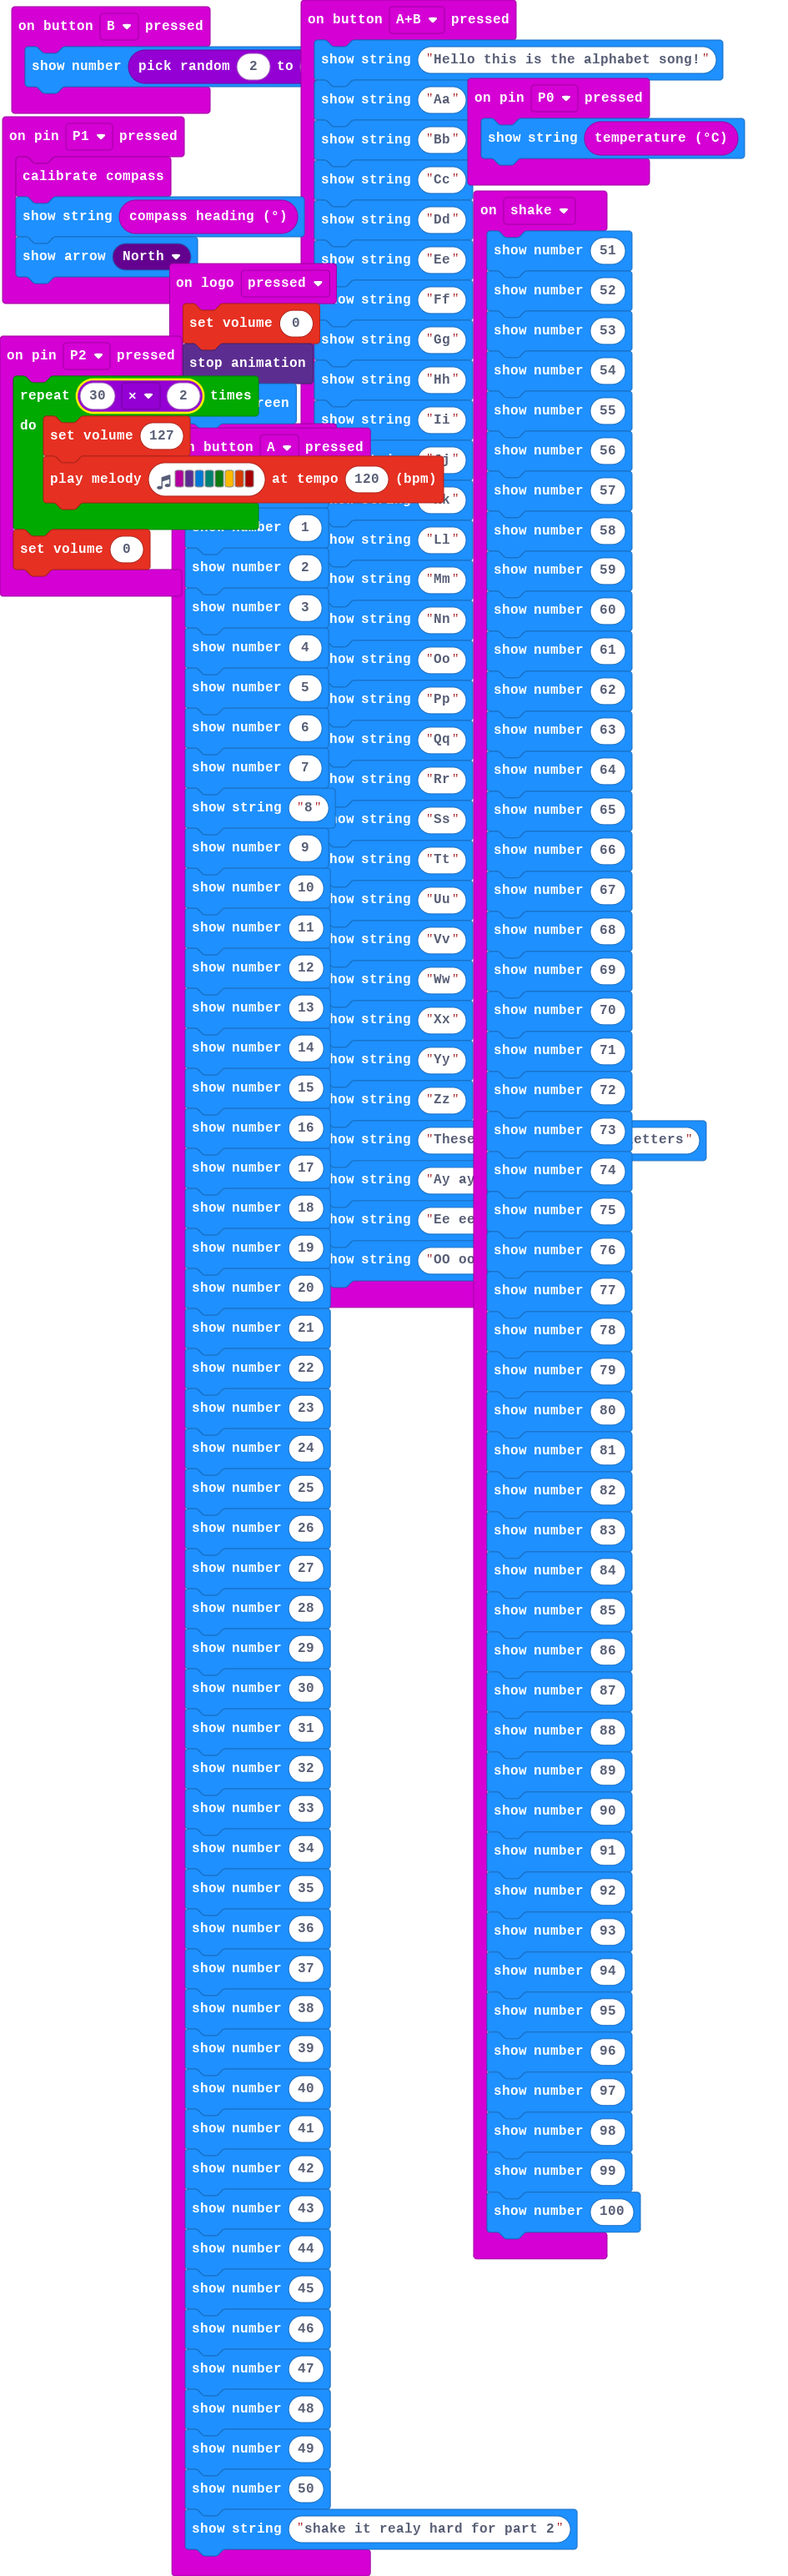
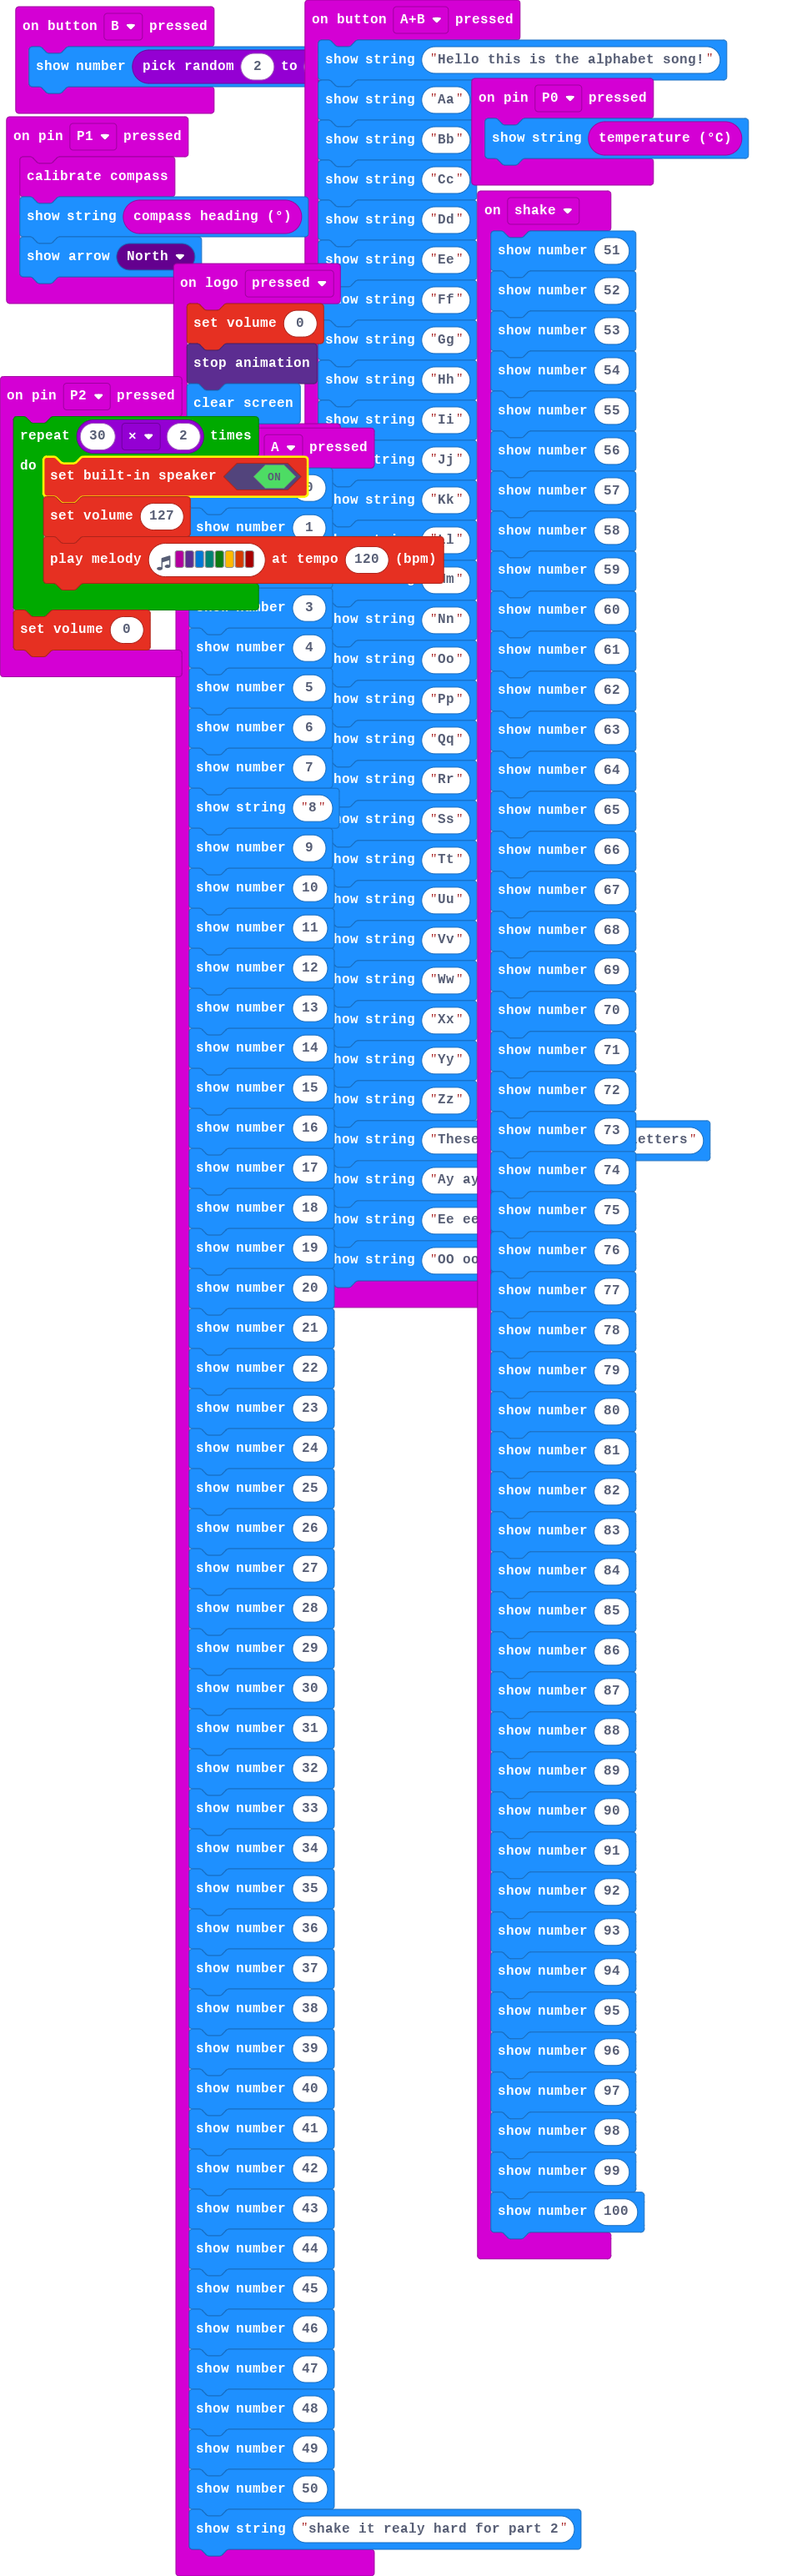
Update main.blocks, main.ts

Changed region(s): [[0.0, 0.0, 0.8286, 1.0], [0.7058, 0.9634, 0.7365, 0.9945], [0.4603, 0.9945, 0.491, 1.0]]

diff --git a/main.ts b/main.ts
@@ -57,6 +57,7 @@ input.onButtonPressed(Button.A, function () {
 })
 input.onPinPressed(TouchPin.P2, function () {
     for (let index = 0; index < 30 * 2; index++) {
+        music.setBuiltInSpeakerEnabled(true)
         music.setVolume(127)
         music.playMelody("C D E F G A B C5 ", 120)
     }
